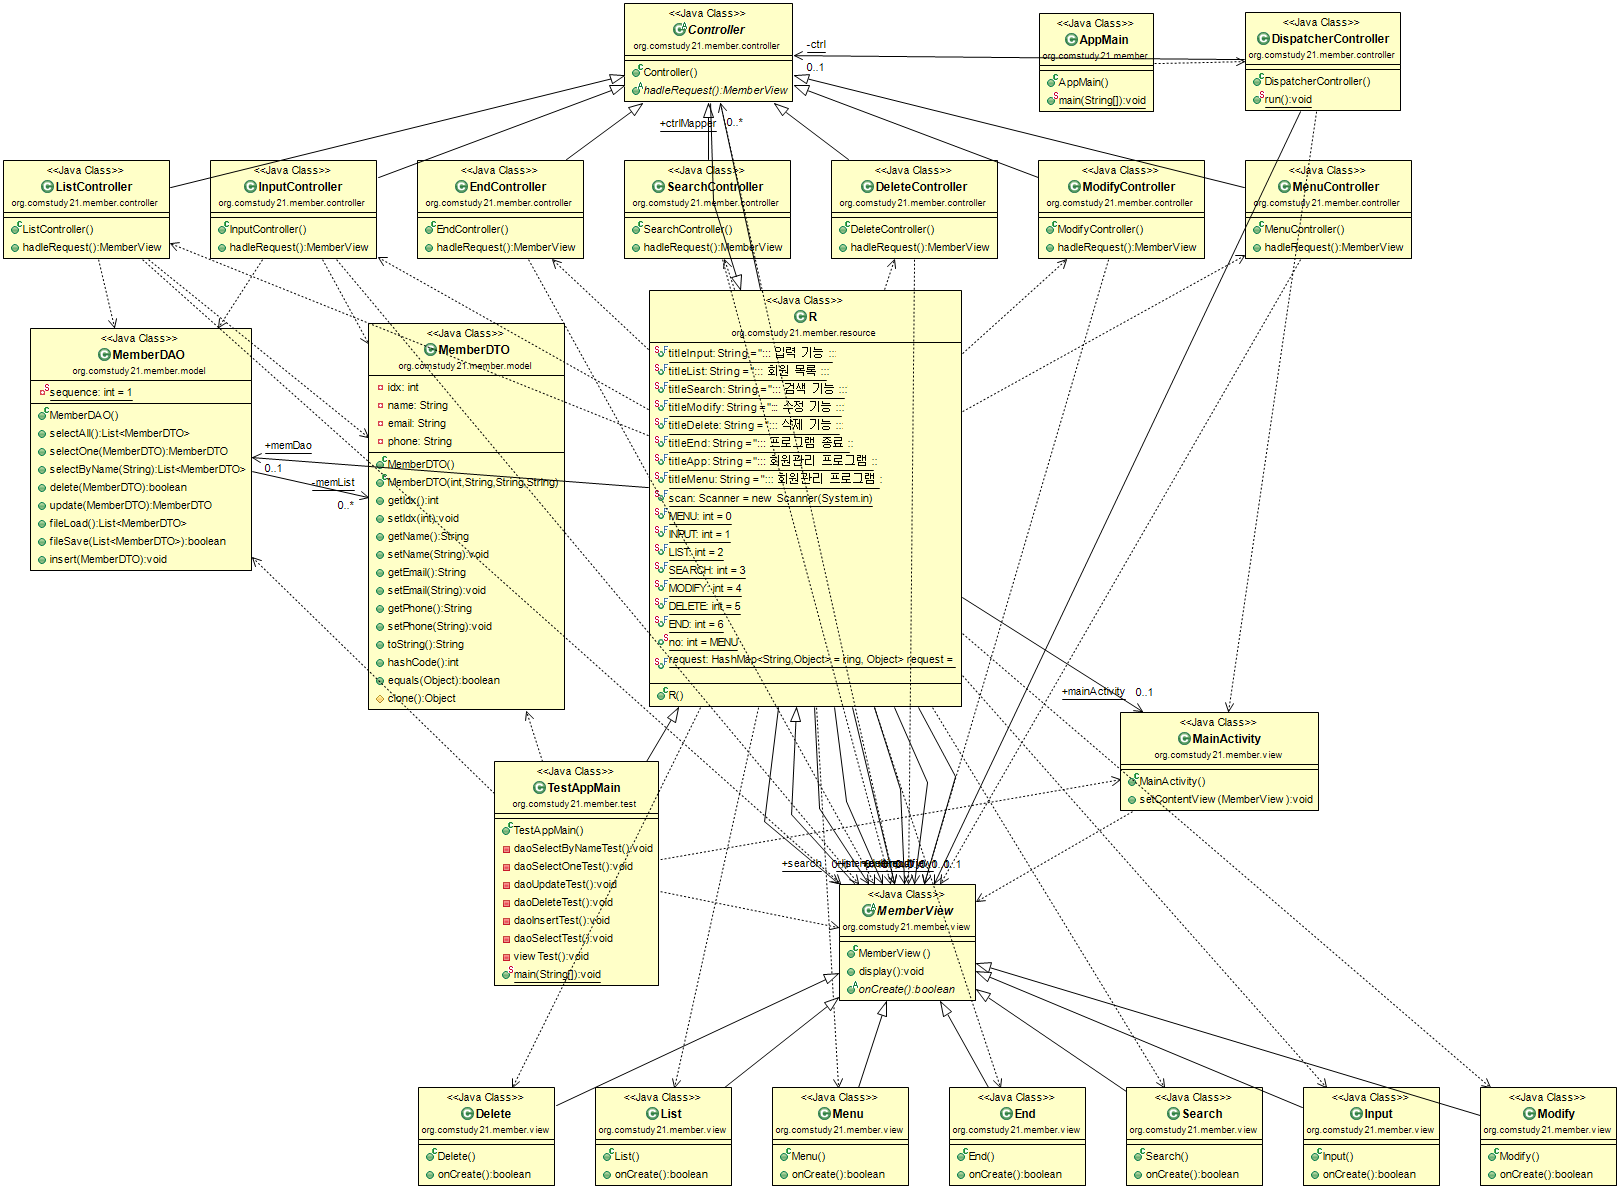
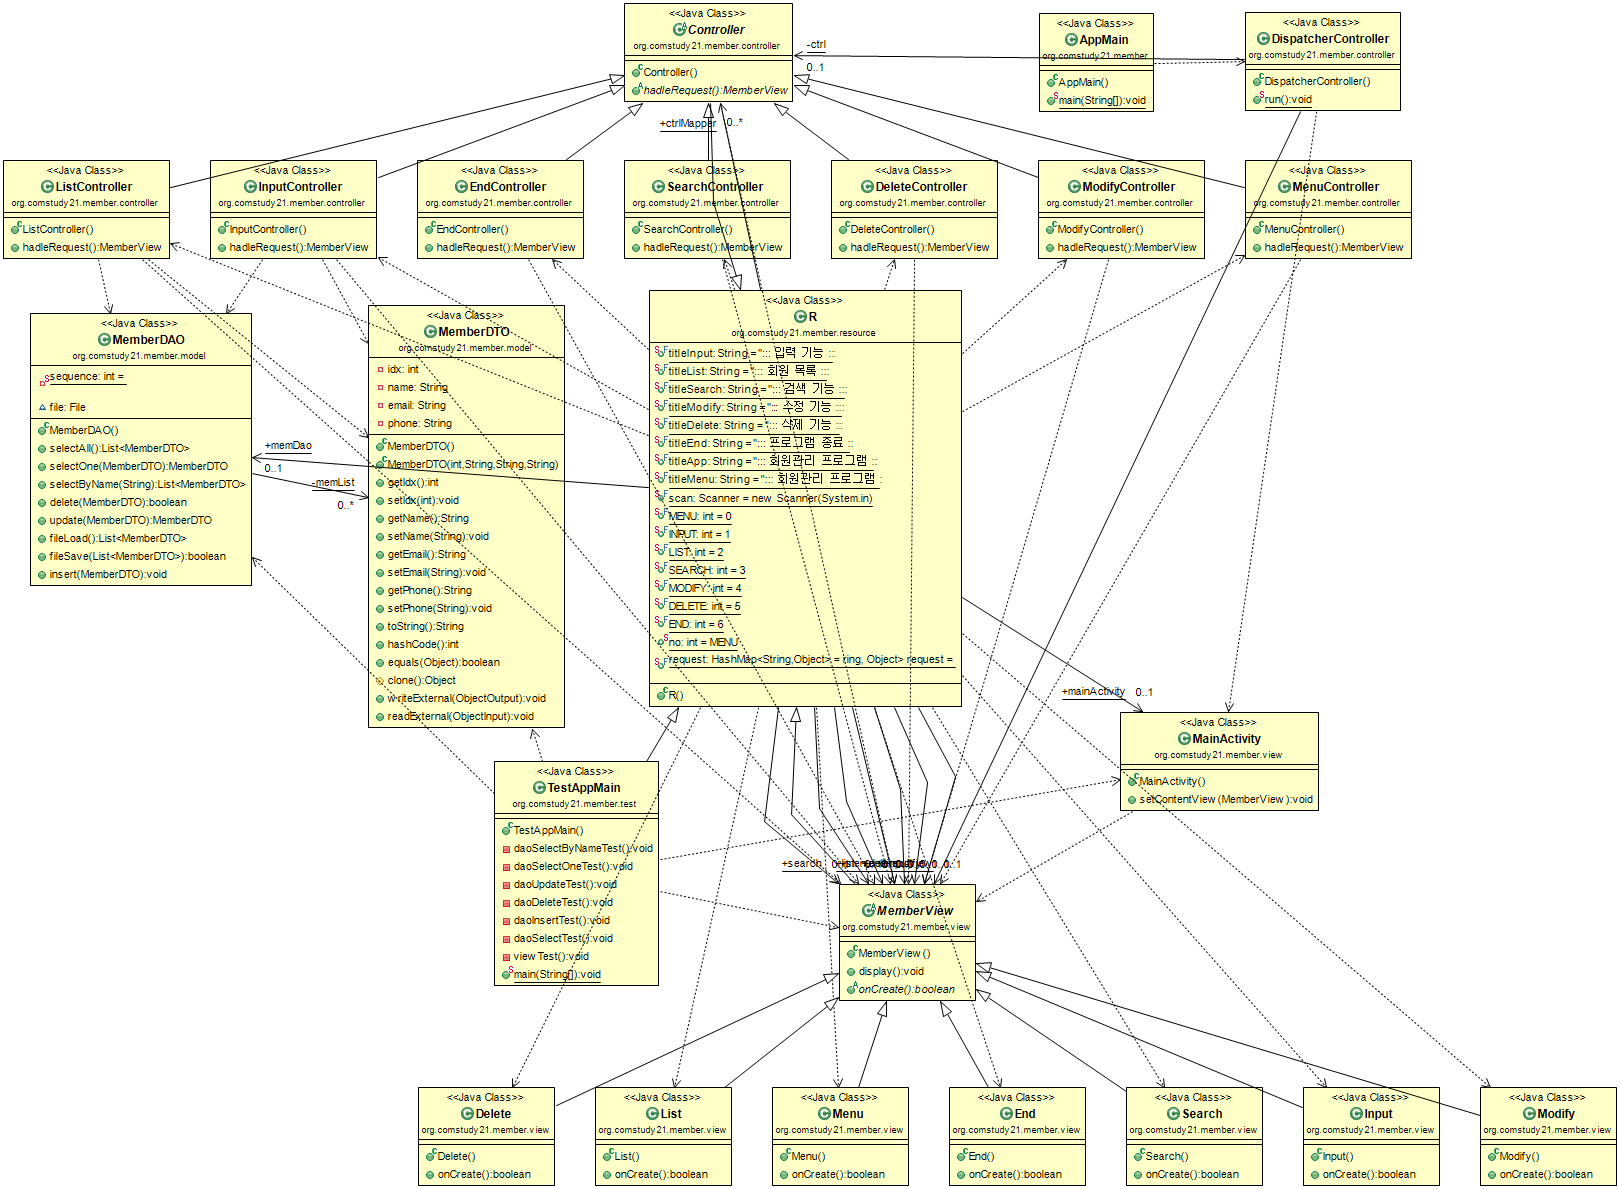
day21 skillup 입력,출력,저장,로드 MVC 구현

Changed region(s): [[0.216, 0.2489, 0.3704, 0.6224], [0.0, 0.2489, 0.1543, 0.4979]]

diff --git a/src/org/comstudy21/member/model/MemberDAO.java b/src/org/comstudy21/member/model/MemberDAO.java
@@ -1,12 +1,18 @@
 package org.comstudy21.member.model;
 
+import java.io.File;
+import java.io.FileInputStream;
+import java.io.FileOutputStream;
+import java.io.FileWriter;
+import java.io.IOException;
+import java.io.ObjectInputStream;
+import java.io.ObjectOutputStream;
 import java.util.ArrayList;
-import java.util.Collections;
 import java.util.List;
 import java.util.Vector;
 
 public class MemberDAO {
-	private static final Vector<MemberDTO> memList = new Vector<MemberDTO>();
+	private static Vector<MemberDTO> memList = new Vector<MemberDTO>();
 	private static int sequence = 1;
 	static {
 		memList.add(new MemberDTO(sequence++, "홍길동", "hong@a.com", "010-1111-1111"));
@@ -16,6 +22,7 @@ public class MemberDAO {
 	}
 	
 	public List<MemberDTO> selectAll() {
+		memList = (Vector<MemberDTO>)fileLoad();
 		List<MemberDTO> list = new ArrayList<MemberDTO>();
 		for(MemberDTO mem : memList) {
 			list.add((MemberDTO)mem.clone());
@@ -56,16 +63,63 @@ public class MemberDAO {
 		}
 	}
 	
+	File file = new File("member.dat");
 	public List<MemberDTO> fileLoad() {
-		return null;
+		List<MemberDTO> list = null;
+		FileInputStream fis = null;
+		ObjectInputStream ois = null;
+		
+		try {
+			fis = new FileInputStream(file);
+			ois = new ObjectInputStream(fis);
+			list = (List<MemberDTO>)ois.readObject();
+		} catch (ClassNotFoundException e) {
+			e.printStackTrace();
+		} catch (IOException e) {
+			e.printStackTrace();
+		} finally {
+			if(ois != null)
+				try {
+					ois.close();
+					fis.close();
+				} catch (IOException e) {}
+		}
+		
+		memList = (Vector<MemberDTO>) list;
+		return list;
 	}
 	
 	public boolean fileSave(List<MemberDTO> list) {
-		return false;
+		// memList저장하기
+		FileWriter fw = null;
+		FileOutputStream fos = null;
+		ObjectOutputStream oos = null;
+		boolean b = false;
+		try {
+			 fos = new FileOutputStream(file);
+			 oos = new ObjectOutputStream(fos);
+			 oos.writeObject(memList);
+			 b = true;
+		} catch (IOException e) {
+			
+		} finally {
+			try {
+				if(oos != null) oos.close();
+				if(fos != null) fos.close();
+			} catch (IOException e) { }
+		}
+		
+		return b;
 	}
 
 	public void insert(MemberDTO memberDTO) {
 		memberDTO.setIdx(sequence++);
 		memList.add(memberDTO);
+		
+		if(fileSave(memList)) {
+			System.out.println(">>> 파일 저장 완료!");
+		} else {
+			System.out.println(">>> 파일 쓰기 오류!");
+		}
 	}
 }

diff --git a/src/org/comstudy21/member/model/MemberDTO.java b/src/org/comstudy21/member/model/MemberDTO.java
@@ -1,6 +1,11 @@
 package org.comstudy21.member.model;
 
-public class MemberDTO {
+import java.io.Externalizable;
+import java.io.IOException;
+import java.io.ObjectInput;
+import java.io.ObjectOutput;
+
+public class MemberDTO implements Externalizable  {
 	private int idx;
 	private String name;
 	private String email;
@@ -84,5 +89,21 @@ public class MemberDTO {
 		} catch (Exception e) { }
 		
 		return null;
+	}
+
+	@Override
+	public void writeExternal(ObjectOutput out) throws IOException {
+		out.writeObject(idx);
+		out.writeObject(name);
+		out.writeObject(email);
+		out.writeObject(phone);
+	}
+
+	@Override
+	public void readExternal(ObjectInput in) throws IOException, ClassNotFoundException {
+		idx = (Integer)in.readObject();
+		name = (String)in.readObject();
+		email = (String)in.readObject();
+		phone = (String)in.readObject();
 	}
 }
